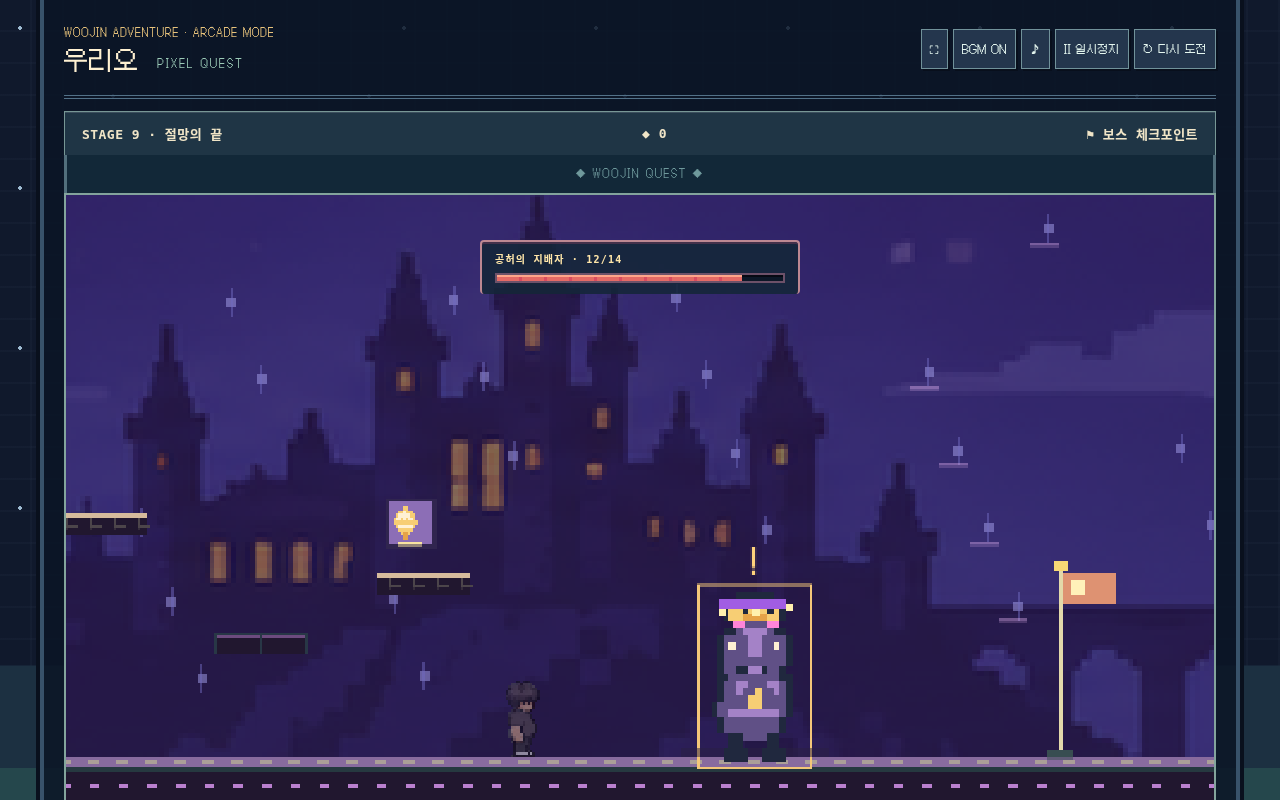
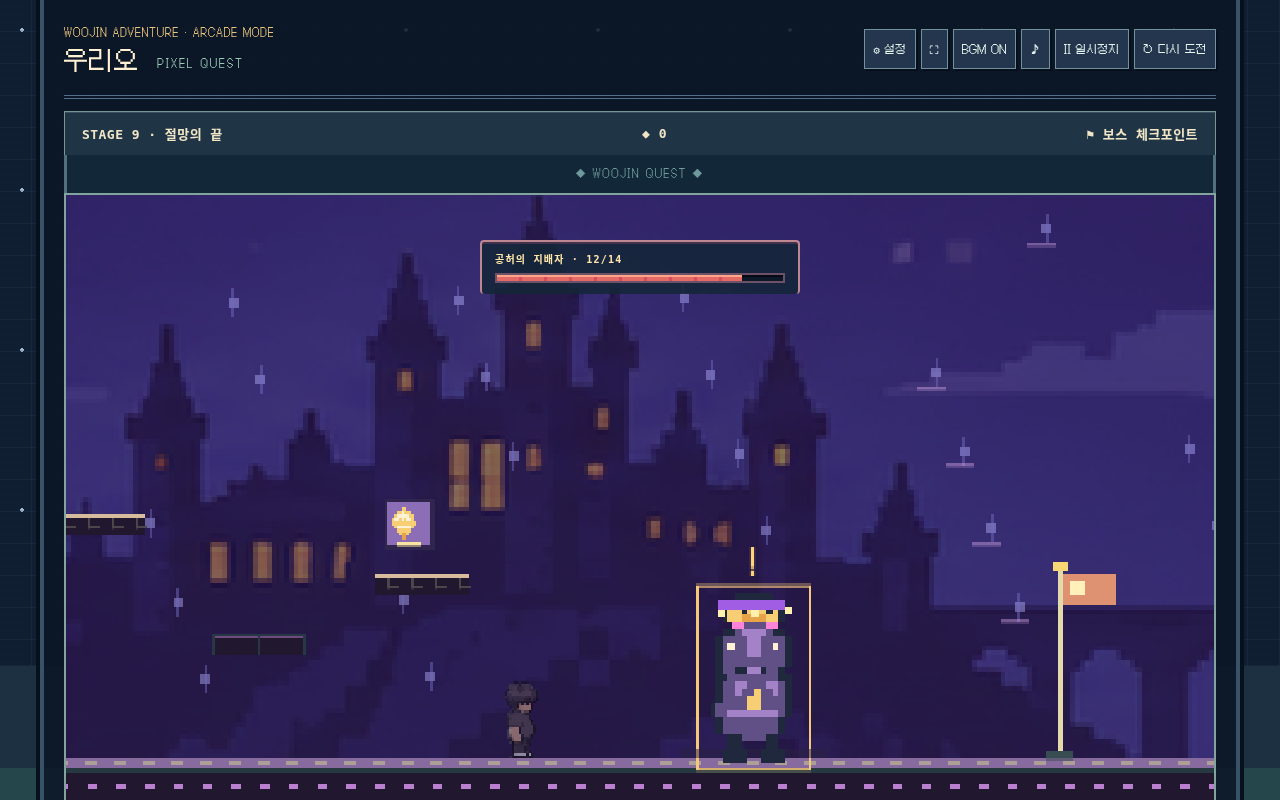
Fix pet box semantics and fill landscape playfield with split controls and sound settings

diff --git a/dist/adventure.js b/dist/adventure.js
@@ -1,14 +1,14 @@
 'use strict';
 (()=>{
-const $=id=>document.getElementById(id),canvas=$('world'),ctx=canvas.getContext('2d'),W=innerWidth<600?640:960,H=540,DT=1/120;
+const $=id=>document.getElementById(id),canvas=$('world'),ctx=canvas.getContext('2d'),H=540,DT=1/120;let W=innerWidth<600?640:960;
 canvas.width=W/2;canvas.height=H/2;ctx.setTransform(.5,0,0,.5,0,0);ctx.imageSmoothingEnabled=false;
-const music=window.WoorioAudio?.create();let musicEnabled=true;
+const music=window.WoorioAudio?.create();let options={music:true,sound:true};try{const v=JSON.parse(localStorage.getItem('woorio-options-v1'));if(typeof v?.music==='boolean')options.music=v.music;if(typeof v?.sound==='boolean')options.sound=v.sound}catch{}let musicEnabled=options.music;music?.setEnabled(musicEnabled);const effectCounts={death:0,shot:0,pickup:0},effectVoices=new Set();
 const heroSheet=new Image();heroSheet.src='art/woorio/hero.png';
 const background=new Image();background.src='art/pixel-worlds.png';
 const names=['햇살 숲길','바람의 해안','이끼 낀 유적','수정 동굴','달빛의 성','폭풍의 고가','쇠톱 공장','공허의 성벽','절망의 끝'];
 const colors=[['#7cac58','#74583e','#b18655'],['#dfca85','#927651','#c5a778'],['#84a16a','#586b63','#899785'],['#9a92d0','#51496d','#78689f'],['#91a7b9','#4e586e','#737b94'],['#8babb2','#324f63','#719ba7'],['#b98c6b','#5c4242','#d5a374'],['#957bbc','#302e53','#7064a2'],['#886b9e','#21172f','#ba80cf']];
 let unlocked=0,total=0;try{const s=JSON.parse(localStorage.getItem('woojin-adventure-v1'));unlocked=Math.min(names.length-1,Math.max(0,Math.floor(s?.unlocked||0)));total=Math.max(0,s?.total||0)}catch{}
-let stage=0,world,player,camera=0,coins=0,deaths=0,checkpoint=false,bossCheckpoint=false,running=false,paused=false,completed=false,stageDone=false,shellPaused=false,keys={},jumpBuffer=0,coyote=0,last=0,acc=0,time=0,particles=[],audio,sound=true,noticeTime=0,deathPhase=null,deathTimer=0,deathStartY=0,deathCause=null;
+let stage=0,world,player,camera=0,coins=0,deaths=0,checkpoint=false,bossCheckpoint=false,running=false,paused=false,completed=false,stageDone=false,shellPaused=false,keys={},jumpBuffer=0,coyote=0,last=0,acc=0,time=0,particles=[],audio,sound=options.sound,noticeTime=0,deathPhase=null,deathTimer=0,deathStartY=0,deathCause=null;
 const clamp=(x,a,b)=>Math.max(a,Math.min(b,x)),overlap=(a,b)=>a.x<b.x+b.w&&a.x+a.w>b.x&&a.y<b.y+b.h&&a.y+a.h>b.y;
 function save(){try{localStorage.setItem('woojin-adventure-v1',JSON.stringify({unlocked,total}))}catch{}}
 function level(i){
@@ -86,11 +86,13 @@ function level(i){
   if(i>=3&&r===2)belts.push({x:x+w-190,y:y-6,w:90,speed:78});
   if(i>=4&&r===2&&!switches.length){const gate={x:x+w-60,y:y-96,w:28,h:96,gate:true,stone:true,broken:false};platforms.push(gate);switches.push({x:x+w-230,y:y-46,w:36,h:46,time:0,gate});}
   if(i>=5&&r%2===1&&m!=='press')saws.push({x:x+w-220,y:y-160,baseX:x+w-220,baseY:y-160,r:16,phase:r,range:35,speed:1.5});
+  if(i>=4&&r>0&&r%2===1){for(const q of[{x:x+w-330,y:y-76,w:44,h:76,stone:true,wall:true,challenge:true},{x:x+w-430,y:y-48,w:62,h:18,ledge:true,stone:true,challenge:true}])if(!platforms.some(p=>!p.ground&&overlap(q,{x:p.x-(p.moving?58:0),y:(p.baseY??p.y)-(p.elevator?50:0),w:p.w+(p.moving?116:0),h:p.h+(p.elevator?100:0)})))platforms.push(q);}
   if(r>0&&(r%2===0||i>=5))hazards.push({x:x+w-250,y:y-20,w:28,h:20,kind:i%3,broken:false});
   for(let dx=40;dx<w-30;dx+=90)coins.push({x:x+dx,y:y-47,taken:false});
   for(let dx=180;dx<w-40;dx+=260)decor.push({x:x+dx,y,kind:r%3});
   const type=r%Math.min(4,i+2);enemies.push({x:x+(r===0?650:55),y:y-(type===2?135:32),w:34,h:32,vx:(r%2?1:-1)*(30+i*4),type,alive:true,phase:r,timer:2,baseY:y-(type===2?135:32),hp:type===1?2:1});
   if(r>0&&(i>=6||i>=3&&r%2===0))enemies.push({x:x+w-100,y:y-32,w:34,h:32,vx:-38-i*3,type:i>=6&&r%3===0?1:0,alive:true,phase:r+1,timer:2.5,baseY:y-32,hp:i>=6&&r%3===0?2:1});
+  if(i>=4&&r>0&&r%2===1)enemies.push({x:x+w*.62,y:y-135,w:34,h:32,vx:-40-i*2,type:2,alive:true,phase:r+.7,timer:2.6,baseY:y-135,hp:1});
   if(i===8&&r>0)enemies.push({x:x+w-140,y:y-135,w:34,h:32,vx:42,type:2,alive:true,phase:r+2,timer:2.5,baseY:y-135,hp:1});
   if(i>=2&&r===3)enemies.push({x:x+200,y:y-150,w:36,h:30,vx:40,type:4,alive:true,phase:r,timer:2,baseY:y-150,hp:1});
   if(i>=4&&r===4)enemies.push({x:x+65,y:y-38,w:38,h:38,vx:0,type:5,alive:true,phase:r,timer:2,baseY:y-38,hp:2});
@@ -112,7 +114,7 @@ function level(i){
  for(const e of enemies){const floor=ground.find(p=>e.x>=p.x&&e.x<p.x+p.w),flight=e.type===2?48:e.type===4?54:0;let spans=[],span=null;
   for(let x=floor.x+24;x<=floor.x+floor.w-e.w-24;x+=4){const body={x,y:e.baseY-flight,w:e.w,h:e.h+2*flight},clear=!platforms.some(p=>!p.ground&&overlap(body,motion(p)))&&!hazards.some(h=>overlap(body,h));if(clear){if(!span)span={a:x,b:x};span.b=x;}else if(span){spans.push(span);span=null;}}if(span)spans.push(span);spans=spans.filter(s=>s.b-s.a>=12).sort((a,b)=>Math.abs((a.a+a.b)/2-e.x)-Math.abs((b.a+b.b)/2-e.x));if(!spans.length)throw Error('No safe patrol stage '+(i+1));const s=spans[0];e.x=clamp(e.x,s.a,s.b);e.min=e.type===5?e.x:Math.max(s.a,e.x-48);e.max=e.type===5?e.x:Math.min(s.b,e.x+48);Object.assign(e,{spawnX:e.x,spawnY:e.y,spawnVx:e.vx,spawnType:e.type,spawnTimer:e.timer,maxHp:e.hp});}
  const candidates=[];for(const p of ground)for(let x=p.x+40;x<p.x+p.w-74;x+=12){const body={x:x-20,y:p.y-70,w:74,h:70};if(platforms.some(q=>!q.ground&&overlap(body,motion(q)))||hazards.some(h=>overlap(body,h))||enemies.some(e=>x+60>e.min&&x-60<e.max+e.w)||saws.some(s=>Math.abs(s.baseX-x)<s.range+70))continue;candidates.push({x,y:p.y-64,groundY:p.y});}candidates.sort((a,b)=>Math.abs(a.x-length*.5)-Math.abs(b.x-length*.5));const checkpointSpawn=candidates[0]||{x:70,y:406,groundY:470};
- return{profile:rooms.map(r=>r.motif).join(' / '),rooms,length,platforms,gaps,coins,enemies,hazards,saws,decor,belts,switches,items:[],shots:[],flag:checkpointSpawn.x+17,checkpointSpawn,bossSpawn,bossFlag:bossSpawn?.x+17,goal:length-130,boss,bossPickups,petDrops:0};
+ return{profile:rooms.map(r=>r.motif).join(' / '),rooms,length,platforms,gaps,coins,enemies,hazards,saws,decor,belts,switches,items:[],shots:[],flag:checkpointSpawn.x+17,checkpointSpawn,bossSpawn,bossFlag:bossSpawn?.x+17,goal:length-130,boss,bossPickups};
 }
 function start(i=stage){music?.unlock();stage=i;world=level(i);player={x:70,y:390,vx:0,vy:0,w:34,h:64,ground:false,invulnerable:0,power:null,powerTime:0,airJump:1,shieldHits:0,springCooldown:0,pet:false,petGold:false,petX:40,petY:430,petCooldown:0,fireCooldown:0,bossAmmo:0,facing:1};camera=0;time=0;coins=0;checkpoint=false;bossCheckpoint=false;particles=[];running=true;paused=false;completed=false;stageDone=false;releaseKeys();coyote=0;deathPhase=null;deathCause=null;deathTimer=0;$('deathCurtain').hidden=true;noticeTime=0;$('notice').textContent='';$('panel').classList.add('hidden');updateHud();updateStages();canvas.focus({preventScroll:true})}
 function message(title,text,label){$('panelTitle').textContent=title;$('panelText').textContent=text;$('play').textContent=label;$('panel').classList.remove('hidden')}
@@ -127,13 +129,14 @@ function updateHud(){syncFireControl();const ability=({giant:'⬆ 거대화',fir
  const powerGauge=$('powerGauge'),powerFill=$('powerFill');if(powerGauge&&powerFill){powerGauge.hidden=!player?.power;if(powerFill.style)powerFill.style.width=player?.power?(Math.max(0,player.powerTime)/(player.power==='shield'?8:5)*100)+'%':'0%';powerFill.setAttribute?.('data-type',player?.power||'')}
  const boss=world?.boss,bar=$('bossHealth');if(bar){bar.hidden=!boss||boss.hp<=0||player.x<world.length-1450;if(!bar.hidden){const hp=$('bossHp');hp.style.width=(boss.hp/boss.maxHp*100)+'%';$('bossHpText').textContent=boss.name+' · '+boss.hp+'/'+boss.maxHp}}}
 function updateStages(){$('stages').innerHTML=names.map((n,i)=>`<button data-stage="${i}" ${i>unlocked?'disabled':''} class="${i===stage?'selected':''}">${i>unlocked?'🔒 ':''}${i+1}. ${n}</button>`).join('')}
+function effect(kind){if(!sound)return;try{audio??=new(window.AudioContext||window.webkitAudioContext)();audio.resume();const sequence=kind==='death'?[690,520,350,175]:kind==='pickup'?[660,880,1100]:[720,340],beat=kind==='death'?.065:kind==='pickup'?.04:.022;effectCounts[kind]++;sequence.forEach((f,i)=>{const o=audio.createOscillator(),g=audio.createGain(),at=audio.currentTime+i*beat;o.type=kind==='pickup'?'triangle':'square';o.frequency.setValueAtTime(f,at);o.frequency.exponentialRampToValueAtTime(f*.65,at+beat);g.gain.setValueAtTime(kind==='death'?.021:.012,at);g.gain.exponentialRampToValueAtTime(.001,at+beat);o.connect(g);g.connect(audio.destination);effectVoices.add(o);o.onended=()=>{effectVoices.delete(o);o.disconnect();g.disconnect()};o.start(at);o.stop(at+beat+.006);});}catch{}}
 function sfx(f=440){if(!sound)return;try{audio??=new(window.AudioContext||window.webkitAudioContext)();audio.resume();const o=audio.createOscillator(),g=audio.createGain();o.type='square';o.frequency.setValueAtTime(f,audio.currentTime);o.frequency.exponentialRampToValueAtTime(f*1.4,audio.currentTime+.10);g.gain.setValueAtTime(.018,audio.currentTime);g.gain.exponentialRampToValueAtTime(.001,audio.currentTime+.12);o.connect(g);g.connect(audio.destination);o.start();o.stop(audio.currentTime+.13)}catch{}}
 const reduceMotion=matchMedia('(prefers-reduced-motion: reduce)').matches;
 function burst(x,y,color,count=14){if(reduceMotion)return;for(let n=0;n<count;n++)particles.push({x,y,vx:(Math.random()-.5)*190,vy:-Math.random()*170,color,life:.6});if(particles.length>120)particles.splice(0,particles.length-120)}
 function resizePlayer(giant){const h=giant?112:64,w=giant?62:34;player.y+=player.h-h;player.x+=(player.w-w)/2;player.w=w;player.h=h}
-function grant(type){if(type==='pet'){if(player.pet){player.petGold=true;notice('황금 두부! 더 넓은 곳까지 도와줘.')}else{player.pet=true;player.petX=player.x-40;player.petY=player.y+player.h-30;notice('두부가 함께해!')} }else{resizePlayer(type==='giant');player.power=type;player.powerTime=type==='shield'?8:5;player.airJump=1;player.shieldHits=type==='shield'?1:0;notice(({giant:'거대화! 가시와 벽돌을 부숴!',fire:'불꽃탄! X 또는 불꽃 버튼으로 발사!',shoes:'날개신발! 공중에서 한 번 더 점프해!',shield:'수호방패! 피해를 한 번 막아줘!'})[type])}sfx(900);updateHud()}
-function bump(b){if(b.broken)return;b.bump=.18;if(b.box&&!b.used){b.used=true;world.items.push({x:b.x+8,y:b.y-4,w:24,h:24,vy:-210,type:b.reward==='pet'?(world.petDrops<2?(world.petDrops++,'pet'):'shield'):b.reward,age:0});sfx(650)}else if(!b.ground&&player.power==='giant'){b.broken=true;burst(b.x+20,b.y+20,'#dba76b')}else sfx(190)}
-function die(cause='hit'){if(deathPhase||!running)return;deaths++;deathPhase='fall';deathCause=cause;deathTimer=0;deathStartY=cause==='pit'?H+45:player.y;burst(player.x+17,Math.min(H-20,player.y+28),'#fff1ad');sfx(cause==='pit'?560:140);player.vx=player.vy=0;releaseKeys();coyote=0;$('deathReturn').textContent=bossCheckpoint?'BOSS CHECKPOINT':checkpoint?'CHECKPOINT':'START';world.shots=world.shots.filter(s=>!s.hostile)}
+function grant(type){if(type==='pet'){if(player.pet){player.petGold=true;notice('황금 두부! 더 넓은 곳까지 도와줘.')}else{player.pet=true;player.petX=player.x-40;player.petY=player.y+player.h-30;notice('두부가 함께해!')} }else{resizePlayer(type==='giant');player.power=type;player.powerTime=type==='shield'?8:5;player.airJump=1;player.shieldHits=type==='shield'?1:0;notice(({giant:'거대화! 가시와 벽돌을 부숴!',fire:'불꽃탄! X 또는 불꽃 버튼으로 발사!',shoes:'날개신발! 공중에서 한 번 더 점프해!',shield:'수호방패! 피해를 한 번 막아줘!'})[type])}effect('pickup');updateHud()}
+function bump(b){if(b.broken)return;b.bump=.18;if(b.box&&!b.used){b.used=true;world.items.push({x:b.x+8,y:b.y-4,w:24,h:24,vy:-210,type:b.reward,age:0});sfx(650)}else if(!b.ground&&player.power==='giant'){b.broken=true;burst(b.x+20,b.y+20,'#dba76b')}else sfx(190)}
+function die(cause='hit'){if(deathPhase||!running)return;deaths++;deathPhase='fall';deathCause=cause;deathTimer=0;deathStartY=cause==='pit'?H+45:player.y;burst(player.x+17,Math.min(H-20,player.y+28),'#fff1ad');effect('death');player.vx=player.vy=0;releaseKeys();coyote=0;$('deathReturn').textContent=bossCheckpoint?'BOSS CHECKPOINT':checkpoint?'CHECKPOINT':'START';world.shots=world.shots.filter(s=>!s.hostile)}
 function advanceDeath(dt){deathTimer+=dt;
  if(deathPhase==='fall'){player.y=deathCause==='pit'?deathStartY-670*deathTimer+600*deathTimer*deathTimer:deathStartY-440*deathTimer+460*deathTimer*deathTimer;if(deathTimer>=1.05){deathPhase='wipe';deathTimer=0;$('deathCurtain').hidden=false}}
  else if(deathPhase==='wipe'&&deathTimer>=.68){
@@ -155,7 +158,7 @@ function fire(){const special=world.boss&&world.boss.hp>0&&player.bossAmmo>0;if(
  player.fireCooldown=special?.27:.38;
  if(special)player.bossAmmo--;
  world.shots.push({x:player.x+player.w/2,y:player.y+player.h*.45,w:special?22:12,h:special?20:12,vx:player.facing*(special?550:345),vy:special?-45:-70,life:special?1.4:.97,hostile:false,bossAttack:!!special});
- sfx(special?720:270);updateHud()}
+ effect('shot');updateHud()}
 function tick(dt){if(!running||paused)return;time+=dt;if(deathPhase){advanceDeath(dt);return}const old={...player};player.land=Math.max(0,(player.land||0)-dt);noticeTime=Math.max(0,noticeTime-dt);if(!noticeTime&&$('notice').textContent)$('notice').textContent='';
  for(const p of world.platforms){p.oldX=p.x;p.oldY=p.y;p.bump=Math.max(0,(p.bump||0)-dt);if(p.moving)p.x=p.baseX+Math.sin(time*1.1+p.phase)*58;if(p.elevator)p.y=p.baseY+Math.sin(time*1.2+p.phase)*50;if(p.crumble&&p.collapseTime>0){p.collapseTime-=dt;if(p.collapseTime<=0)p.broken=true}}
  for(const sw of world.switches){if(sw.time>0){sw.time=Math.max(0,sw.time-dt);sw.gate.broken=sw.gate.destroyed||sw.time>0||overlap(player,sw.gate)}}
@@ -170,7 +173,7 @@ function tick(dt){if(!running||paused)return;time+=dt;if(deathPhase){advanceDeat
     if(b.kind==='stone'){if(b.pattern%2===0)shot(-240,0,32,14,456);else{shot(Math.cos(angle)*215,Math.sin(angle)*215,24,24);if(enraged)shot(-180,80,18,18);}}
     else if(b.kind==='storm'){if(b.pattern%2===0){b.mode='dash';b.attackTimer=.85;}else{shot(-285,0,30,12,435);if(enraged)shot(-245,-85,24,12,390);}}
     else{for(const offset of(enraged?[-.34,0,.34]:[-.25,.25]))shot(Math.cos(angle+offset)*270,Math.sin(angle+offset)*270);if(enraged){const ledge=world.platforms.filter(p=>p.crumble&&p.x>world.length-1300)[b.pattern%3];if(ledge&&!ledge.broken)ledge.collapseTime=1;}}
-    b.pattern++;if(b.mode!=='dash'){b.mode='rest';b.attackTimer=enraged?1.05:1.3;}
+    if(Math.abs(b.x-player.x)<W)effect('shot');b.pattern++;if(b.mode!=='dash'){b.mode='rest';b.attackTimer=enraged?1.05:1.3;}
    }
    if(b.mode==='rest'&&b.x<b.homeX)b.x=Math.min(b.homeX,b.x+120*dt);
   }
@@ -198,7 +201,7 @@ function tick(dt){if(!running||paused)return;time+=dt;if(deathPhase){advanceDeat
  for(const token of world.bossPickups){if(token.used){token.reset-=dt;if(token.reset<=0)token.used=false;continue}
   if(overlap(player,{x:token.x,y:token.y,w:28,h:28})){token.used=true;token.reset=3.8;player.bossAmmo=Math.min(4,player.bossAmmo+2);burst(token.x+12,token.y+12,'#fbd17b',11);sfx(850);updateHud()}}
  for(const c of world.coins)if(!c.taken&&Math.hypot(player.x+player.w/2-c.x,player.y+player.h*.5-c.y)<(player.petGold?155:player.pet?105:player.w/2+20)){c.taken=true;coins++;burst(c.x,c.y,'#ffe59b',5);sfx(700);updateHud()}
- for(const e of world.enemies){if(!e.alive)continue;e.timer-=dt;let speed=1;if(e.type===0&&Math.abs(player.x-e.x)<160)speed=1.8;e.x+=e.vx*dt*speed;if(e.x<e.min||e.x>e.max){e.x=clamp(e.x,e.min,e.max);e.vx*=-1}if(e.type===2)e.y=e.baseY+Math.sin(time*2.6+e.phase)*48;if(e.type===4)e.y=e.baseY+Math.sin(time*3+e.phase)*22+(Math.abs(player.x-e.x)<200&&Math.sin(time*2+e.phase)>0?32:0);if((e.type===3||e.type===5)&&e.timer<=0&&Math.abs(player.x-e.x)<(e.type===5?570:650)){e.timer=e.type===5?Math.max(1.3,2.15-stage*.07):Math.max(1.4,2.8-stage*.12);const dx=player.x-e.x,dy=player.y+25-e.y,d=Math.hypot(dx,dy)||1;world.shots.push({x:e.x,y:e.y,w:e.type===5?16:12,h:e.type===5?16:12,vx:dx/d*(e.type===5?215:150),vy:dy/d*(e.type===5?215:150),life:4,hostile:true})}
+ for(const e of world.enemies){if(!e.alive)continue;e.timer-=dt;let speed=1;if(e.type===0&&Math.abs(player.x-e.x)<160)speed=1.8;e.x+=e.vx*dt*speed;if(e.x<e.min||e.x>e.max){e.x=clamp(e.x,e.min,e.max);e.vx*=-1}if(e.type===2)e.y=e.baseY+Math.sin(time*2.6+e.phase)*48;if(e.type===4)e.y=e.baseY+Math.sin(time*3+e.phase)*22+(Math.abs(player.x-e.x)<200&&Math.sin(time*2+e.phase)>0?32:0);if((e.type===3||e.type===5)&&e.timer<=0&&Math.abs(player.x-e.x)<(e.type===5?570:650)){effect('shot');e.timer=e.type===5?Math.max(1.3,2.15-stage*.07):Math.max(1.4,2.8-stage*.12);const dx=player.x-e.x,dy=player.y+25-e.y,d=Math.hypot(dx,dy)||1;world.shots.push({x:e.x,y:e.y,w:e.type===5?16:12,h:e.type===5?16:12,vx:dx/d*(e.type===5?215:150),vy:dy/d*(e.type===5?215:150),life:4,hostile:true})}
  if(player.pet&&player.petCooldown<=0&&Math.hypot(e.x-player.petX,e.y-player.petY)<(player.petGold?65:55)){kill(e);player.petCooldown=3;continue}
  if(overlap(player,e)){if(player.power==='giant'){kill(e)}else if(old.y+old.h<=e.y+14&&player.vy>0){e.hp--;if(e.hp<=0)kill(e);else{e.type=0;e.invulnerable=.25;burst(e.x,e.y,'#edd795')}player.vy=-390;sfx(550)}else if(!e.invulnerable)hurt()}e.invulnerable=Math.max(0,(e.invulnerable||0)-dt)}
  for(const s of world.shots){s.life-=dt;const oy=s.y;s.x+=s.vx*dt;s.y+=s.vy*dt;
@@ -265,7 +268,7 @@ function frame(now){
 }
 function key(k,down){if(deathPhase||!running||paused)return;if(k==='jump'&&down&&!keys.jump)jumpBuffer=.16;keys[k]=down}
 const mapping={ArrowLeft:'left',a:'left',A:'left',ArrowRight:'right',d:'right',D:'right',' ':'jump',ArrowUp:'jump',w:'jump',W:'jump',x:'fire',X:'fire'};
-addEventListener('keydown',e=>{if(mapping[e.key]){e.preventDefault();key(mapping[e.key],true)}if(e.key==='Escape'&&!e.repeat)togglePause()});addEventListener('keyup',e=>{if(mapping[e.key]){e.preventDefault();key(mapping[e.key],false)}});
+addEventListener('keydown',e=>{if(!$('settingsPanel').hidden){if(e.key==='Escape')$('closeSettings').onclick();return}if(mapping[e.key]){e.preventDefault();key(mapping[e.key],true)}if(e.key==='Escape'&&!e.repeat)togglePause()});addEventListener('keyup',e=>{if(mapping[e.key]){e.preventDefault();key(mapping[e.key],false)}});
 const activePointers=new Map();
 document.querySelectorAll('[data-key]').forEach(b=>{
  b.setAttribute('aria-pressed','false');
@@ -274,9 +277,17 @@ document.querySelectorAll('[data-key]').forEach(b=>{
 });
 function releaseKeys(){keys={};for(const b of activePointers.keys())b.setAttribute('aria-pressed','false');activePointers.clear();jumpBuffer=0}
 function togglePause(){if(!running||deathPhase)return;paused=!paused;releaseKeys();if(paused)message('잠깐 쉬어가기','준비되면 모험을 이어가자.','계속하기');else $('panel').classList.add('hidden');syncFireControl()}
-$('fullscreen').onclick=()=>{try{const result=document.fullscreenElement?document.exitFullscreen?.():document.querySelector('main').requestFullscreen?.();result?.catch?.(()=>{})}catch{}};
-$('music').onclick=()=>{musicEnabled=!musicEnabled;music?.unlock();music?.setEnabled(musicEnabled);$('music').setAttribute('aria-pressed',String(musicEnabled));$('music').textContent=musicEnabled?'BGM ON':'BGM OFF'};
-$('pause').onclick=togglePause;$('retry').onclick=()=>{if(confirm('이 스테이지를 다시 시작할까?'))start(stage)};$('sound').onclick=()=>{sound=!sound;$('sound').textContent=sound?'♪':'♩'};$('play').onclick=()=>{if(paused){togglePause();return}if(completed){start(0);return}start(stageDone?stage+1:stage)};$('stages').onclick=e=>{const b=e.target.closest('[data-stage]');if(b&&!b.disabled&&(!running||confirm('진행 중인 스테이지를 나가고 다른 맵으로 이동할까?')))start(+b.dataset.stage)};
+function resizeGame(){const view=canvas.parentElement;if(!view?.getBoundingClientRect)return;const r=view.getBoundingClientRect(),wide=innerWidth>innerHeight;const width=wide?Math.max(640,Math.min(2200,Math.round(H*r.width/Math.max(1,r.height)/2)*2)):innerWidth<600?640:960;if(W!==width||canvas.width!==width/2){W=width;canvas.width=W/2;canvas.height=H/2;ctx.setTransform(.5,0,0,.5,0,0);ctx.imageSmoothingEnabled=false;camera=clamp(player.x-W*.36,0,Math.max(0,world.length-W));draw()}}
+addEventListener('resize',()=>requestAnimationFrame(resizeGame));document.addEventListener('fullscreenchange',()=>{releaseKeys();requestAnimationFrame(resizeGame)});
+$('fullscreen').onclick=async()=>{releaseKeys();const main=document.querySelector('main');try{if(document.fullscreenElement){await document.exitFullscreen();return}if(main.classList.contains('play-fullscreen')){main.classList.remove('play-fullscreen');requestAnimationFrame(resizeGame);return}if(main.requestFullscreen){await main.requestFullscreen();return}}catch{}main.classList.toggle('play-fullscreen');requestAnimationFrame(resizeGame)};
+let settingsWasPaused=false;
+function syncOptions(){options={music:musicEnabled,sound};music?.setEnabled(musicEnabled);$('music').setAttribute('aria-pressed',String(musicEnabled));$('music').textContent=musicEnabled?'BGM ON':'BGM OFF';$('sound').textContent=sound?'♪':'♩';$('settingMusic').checked=musicEnabled;$('settingSound').checked=sound;try{localStorage.setItem('woorio-options-v1',JSON.stringify(options))}catch{}if(!sound){for(const o of effectVoices)try{o.stop()}catch{}effectVoices.clear()}}
+$('settings').onclick=()=>{settingsWasPaused=paused;paused=true;releaseKeys();$('settingsPanel').hidden=false;syncOptions();syncFireControl()};
+$('closeSettings').onclick=()=>{$('settingsPanel').hidden=true;paused=settingsWasPaused;releaseKeys();syncFireControl()};
+$('settingMusic').onchange=()=>{musicEnabled=$('settingMusic').checked;music?.unlock();syncOptions()};$('settingSound').onchange=()=>{sound=$('settingSound').checked;syncOptions()};
+syncOptions();requestAnimationFrame(resizeGame);
+$('music').onclick=()=>{musicEnabled=!musicEnabled;music?.unlock();syncOptions()};
+$('pause').onclick=togglePause;$('retry').onclick=()=>{if(confirm('이 스테이지를 다시 시작할까?'))start(stage)};$('sound').onclick=()=>{sound=!sound;syncOptions()};$('play').onclick=()=>{if(paused){togglePause();return}if(completed){start(0);return}start(stageDone?stage+1:stage)};$('stages').onclick=e=>{const b=e.target.closest('[data-stage]');if(b&&!b.disabled&&(!running||confirm('진행 중인 스테이지를 나가고 다른 맵으로 이동할까?')))start(+b.dataset.stage)};
 document.addEventListener('visibilitychange',()=>{if(document.hidden&&running&&!paused){shellPaused=true;togglePause()}if(!document.hidden){last=0;acc=0}});
 addEventListener('message',e=>{
  if(e.origin!==location.origin||e.data?.type!=='game-visibility')return;
@@ -285,5 +296,5 @@ addEventListener('message',e=>{
  else if(sceneVisible&&shellPaused){shellPaused=false;if(paused)togglePause()}
 });
 addEventListener('blur',releaseKeys);world=level(0);player={x:70,y:390,w:34,h:64,vx:0,vy:0};updateStages();updateHud();requestAnimationFrame(frame);
-if(['localhost','127.0.0.1'].includes(location.hostname))window.adventureTest={start,tick,level,key,die,grant,bump,fire,burst,draw,levelCount:names.length,get music(){return music?.state},get state(){return{stage,world,player,checkpoint,bossCheckpoint,unlocked,total,running,paused,stageDone,deaths,deathPhase,deathCause,keys,particlesCount:particles.length}},warpGoal(){player.x=world.goal;tick(DT)}};
+if(['localhost','127.0.0.1'].includes(location.hostname))window.adventureTest={start,tick,level,key,die,grant,bump,fire,burst,draw,levelCount:names.length,get music(){return music?.state},get effects(){return{...effectCounts}},get viewWidth(){return W},get state(){return{stage,world,player,checkpoint,bossCheckpoint,unlocked,total,running,paused,stageDone,deaths,deathPhase,deathCause,keys,particlesCount:particles.length}},warpGoal(){player.x=world.goal;tick(DT)}};
 })();

diff --git a/dist/woorio-mobile.css b/dist/woorio-mobile.css
@@ -1,0 +1,16 @@
+.game-adventure{background-image:repeating-linear-gradient(0deg,#15223a22 0 2px,transparent 2px 8px),radial-gradient(2px 2px at 22px 30px,#9ebbd2 98%,transparent),linear-gradient(90deg,transparent 31px,#48677b22 31px 32px),linear-gradient(transparent 31px,#48677b22 31px 32px);background-size:8px 8px,192px 160px,32px 32px,32px 32px;background-color:#101e32}
+.settings-panel{position:fixed;inset:0;z-index:100;display:grid;place-items:center;background:#081222db;padding:20px}.settings-panel[hidden]{display:none}.settings-panel section{width:min(360px,90vw);border:3px solid #a5b8a1;box-shadow:6px 6px #070d16;background:#172d40;padding:24px}.settings-panel h2{font-size:20px;color:#ffe1a0}.settings-panel label{display:flex;gap:14px;align-items:center;padding:14px 0;font-size:15px}.settings-panel input{width:22px;height:22px;accent-color:#8ed8b8}.settings-panel button{padding:12px;width:100%;margin-top:12px;background:#3c675b;border:2px solid #abc8a8}
+.game-adventure main.play-fullscreen{position:fixed;inset:0;z-index:90;width:100vw;height:100dvh;max-width:none;overflow:auto;background:#101e32}
+@media(orientation:landscape) and (max-height:600px){
+ .game-adventure{overflow:hidden}.game-adventure main,.game-adventure main:fullscreen,.game-adventure main.play-fullscreen{position:fixed;inset:0;width:100vw;height:100dvh;max-width:none;display:block;padding:0;border:0;margin:0;overflow:hidden}
+ .game-adventure header{position:absolute;left:0;right:0;top:0;height:29px;min-height:0;padding:2px 8px!important;border:0;margin:0;z-index:5;background:#102234}
+ .game-adventure h1{font-size:14px!important;margin:0}.game-adventure header small,.game-adventure .title-accent{display:none}.game-adventure .tools{gap:4px;max-width:none;flex-wrap:nowrap}.game-adventure .tools button{font-size:9px!important;min-height:24px!important;padding:3px 6px!important}
+ .game-adventure .hud{position:absolute;top:29px;height:23px;left:0;right:0;margin:0;padding:3px 8px!important;font-size:9px;border-width:1px;z-index:4}
+ .game-adventure #notice{position:absolute;top:52px;left:0;right:0;height:22px;min-height:22px;font-size:9px;padding:2px;z-index:3}
+ .game-adventure .viewport{position:absolute;top:74px;left:0;right:0;bottom:0;width:100%;height:auto;margin:0;border:0;display:block;box-shadow:none;min-height:0}
+ .game-adventure #world{display:block;width:100%!important;height:100%!important;max-width:none;max-height:none;object-fit:fill}
+ .game-adventure .touch{position:absolute;left:max(12px,env(safe-area-inset-left));right:max(12px,env(safe-area-inset-right));bottom:max(8px,env(safe-area-inset-bottom));display:flex;justify-content:flex-end;align-items:end;gap:8px;z-index:5;margin:0;pointer-events:none}
+ .game-adventure .touch-move{margin-right:auto;display:flex;gap:8px}.game-adventure .touch button{pointer-events:auto;width:62px!important;height:62px!important;opacity:.85}.game-adventure .touch .fire{margin:0}.game-adventure #stageMenu{position:absolute;top:79px;right:8px;width:150px;z-index:6;margin:0;transform:none}.game-adventure #stageMenu summary{padding:4px;font-size:9px}.game-adventure #stageMenu[open] nav{background:#12283a}
+ .game-adventure .ability-bar{left:170px;right:170px;top:4px;font-size:9px;min-height:23px;padding:3px 8px}.game-adventure .boss-health{top:32px;max-width:240px;padding:3px;font-size:9px}
+}
+@media(orientation:portrait){.game-adventure main:fullscreen,.game-adventure main.play-fullscreen{padding-top:env(safe-area-inset-top);padding-bottom:env(safe-area-inset-bottom);overflow:auto}.game-adventure main:fullscreen .viewport,.game-adventure main.play-fullscreen .viewport{width:100%;height:auto}}

diff --git a/dist/adventure.html b/dist/adventure.html
@@ -2,11 +2,11 @@
 <html lang="ko">
 <head><meta charset="utf-8"><meta name="viewport" content="width=device-width,initial-scale=1,viewport-fit=cover">
 <meta name="theme-color" content="#111c2b"><title>우리오 · WoojinHub</title>
-<link rel="stylesheet" href="adventure.css"><link rel="stylesheet" href="arcade-ui.css"><link rel="stylesheet" href="woorio-polish.css"><link rel="stylesheet" href="woorio-arcade.css"></head>
+<link rel="stylesheet" href="adventure.css"><link rel="stylesheet" href="arcade-ui.css"><link rel="stylesheet" href="woorio-polish.css"><link rel="stylesheet" href="woorio-arcade.css"><link rel="stylesheet" href="woorio-mobile.css"></head>
 <body class="game-adventure">
 <main>
   <header><div><small>WOOJIN ADVENTURE · ARCADE MODE</small><h1>우리오 <span class="title-accent">PIXEL QUEST</span></h1></div>
-    <div class="tools"><button id="fullscreen" aria-label="전체화면">⛶</button><button id="music" aria-label="배경음악 켜기 끄기" aria-pressed="true">BGM ON</button><button id="sound" aria-label="효과음" title="효과음">♪</button><button id="pause">Ⅱ 일시정지</button><button id="retry">↻ 다시 도전</button></div>
+    <div class="tools"><button id="settings" aria-label="설정">⚙ 설정</button><button id="fullscreen" aria-label="전체화면">⛶</button><button id="music" aria-label="배경음악 켜기 끄기" aria-pressed="true">BGM ON</button><button id="sound" aria-label="효과음" title="효과음">♪</button><button id="pause">Ⅱ 일시정지</button><button id="retry">↻ 다시 도전</button></div>
   </header>
   <div class="hud"><span id="stageLabel"></span><span id="coins">◆ 0</span><span id="checkpoint">체크포인트 찾기</span></div>
   <div id="notice" class="notice-shelf" role="status" aria-live="polite"></div>
@@ -30,6 +30,6 @@
     <button class="jump" data-key="jump" aria-label="점프"></button>
   </div>
   <details id="stageMenu"><summary>스테이지 선택</summary><nav id="stages" aria-label="스테이지 선택"></nav></details>
-</main>
+<div id="settingsPanel" class="settings-panel" role="dialog" aria-modal="true" aria-label="우리오 설정" hidden><section><h2>게임 설정</h2><label><input id="settingSound" type="checkbox" checked> 효과음</label><label><input id="settingMusic" type="checkbox" checked> 배경음악</label><button id="closeSettings">게임으로 돌아가기</button></section></div></main>
 <script src="pixel-art.js"></script><script src="woorio-audio.js"></script><script src="adventure.js"></script><script src="child-nav.js"></script>
 </body></html>

diff --git a/dist/shell.js b/dist/shell.js
@@ -15,6 +15,7 @@
     iframe.src = paths[id];
     iframe.title = titles[id];
     iframe.id = 'game-' + id;
+    iframe.allowFullscreen = true;
     iframe.hidden = id !== selected;
     iframe.onload = () => {
       ready.add(id);

diff --git a/docs/WOORIO-V28-HANDOFF.md b/docs/WOORIO-V28-HANDOFF.md
@@ -1,0 +1,60 @@
+# Woorio mobile landscape / fullscreen / sound settings — 2026-11-06
+
+Branch feat/woorio-mobile-settings from977e42d. Sites fetched bf5de23 was ancestor;
+no dirty user files. Owner default includes publication, public audience retained.
+
+## Corrected pet semantics
+User clarified limit applies to NUMBER OF PET-ASSIGNED BOXES, not lifetime drops.
+Removed runtime drop counter/budget. At most2boxes have reward pet in a map. Opening
+those boxes again after death always gives pet. Other boxes never turn into pet.
+Fixed rewards/used-state respawn behavior retained. Dedicated test first failed
+on previous implementation and now passes. Prior v27 pet cap documentation superseded.
+
+## Gameplay / sounds
+- Short dedicated death riff (~.27sec), soft launch riff (~.05sec) on player and
+  nearby enemy/boss projectiles, soft pickup ascending riff (~.13sec) on actual grant.
+  Uses real WebAudio oscillator envelopes, separate from original BGM scheduler.
+- New sound settings dialog pauses gameplay, independently controls SFX/BGM, resumes
+  prior pause state; preferences persist under separate woorio-options-v1. Original
+  progression key `woojin-adventure-v1` remains unchanged.
+- Extra later flying enemies and mixed low columns/approach steps. New obstacles only
+  inserted if clear of existing structure motion envelopes; whole maps still pass
+  final box/patrol/coin validation. Existing boss HP6/9/14, warning windows retained.
+
+## Mobile / fullscreen
+- Landscape low-height layout fills viewport width; movement left, jump/fire right,
+  safe-area aware. Logical camera width recomputed from actual viewport ratio while
+  retaining H540 and physics, replacing letterboxed portrait render in side column.
+- Native fullscreen request/exit plus viewport-expansion fallback. Portrait retains
+  readable proportional canvas/buttons. Fullscreenchange/resize release input and
+  resize without resetting progress. Hub iframe allowFullscreen explicitly enabled;
+  only non-Woorio product change is that permission attribute (no other game logic).
+- Slight extra scanline/tile pattern on existing hand-authored pixel surrounds.
+
+## Actual checks
+PASS adventure-pet-boxes (all9maps, all box reward identities, pet boxes after death).
+PASS adventure-sweeps incl new challenge obstacles, placement, room-physics (all40
+boxes jumped,20sec dynamic NPC/structure audit per map), unit/v20/v21/v22/v24,
+power-duration, boss-phases and ui-polish. Updated old pet-budget / side-column
+layout assertions to match user's corrected behavior, not disabled runtime checks.
+PASS real Chromium mobile-settings browser: death/fire/pickup synth events; mute
+prevents new effects; settings persist after reload; full-width844x390landscape with
+viewWidth>1200; left/right two-finger input/release; native and simulated unsupported
+API fullscreen; fullscreen within hub iframe. No autoplay-policy bypass.
+PASS arcade-browser and polish-browser (BGM, font, notice/canvas stability, controls,
+isolated boss projectiles). Grow browser, merge and GTW combat-unit/runtime PASS.
+Opened docs/woorio-v28/{portrait,landscape,fullscreen}.png after actual rendering.
+No physical device/audio hardware listening test. Landscape controls intentionally
+float over bottom corners while main gameplay view uses full viewport width.
+AI logs in docs/woorio-v28: local50/50, full input bot1/9clear. Still not full9clear.
+
+## Resume
+python -m http.server 8765 --directory dist
+node tests/adventure-mobile-settings.cjs
+node tests/adventure-pet-boxes.cjs
+node tests/adventure-sweeps.cjs
+node tests/adventure-room-physics.cjs
+Next: real phone rotate/native fullscreen tests, more capable upper-route/combat AI,
+and human balance testing of late density. Keep pet limits tied to map assignments.
+Do not reset user progression or silently remove public access. Safe rollback source
+bf5de23, previous deployed version28. Never force push.

diff --git a/docs/WOORIO-V27-HANDOFF.md b/docs/WOORIO-V27-HANDOFF.md
@@ -60,3 +60,7 @@ Avoid reintroducing live external font/music dependencies or resetting existing 
 - URL https://woojingame.asnt1.chatgpt.site/#adventure , public audience preserved.
 - Final docs-only record commit is not required in runtime archive. All gameplay
   validation limits, including1/9full AI clears, remain as above.
+
+## Corrected by user
+See WOORIO-V28-HANDOFF.md: maximum2pet-assigned boxes, not lifetime drop budget.
+Mobile landscape and fullscreen behavior supersede this version.
